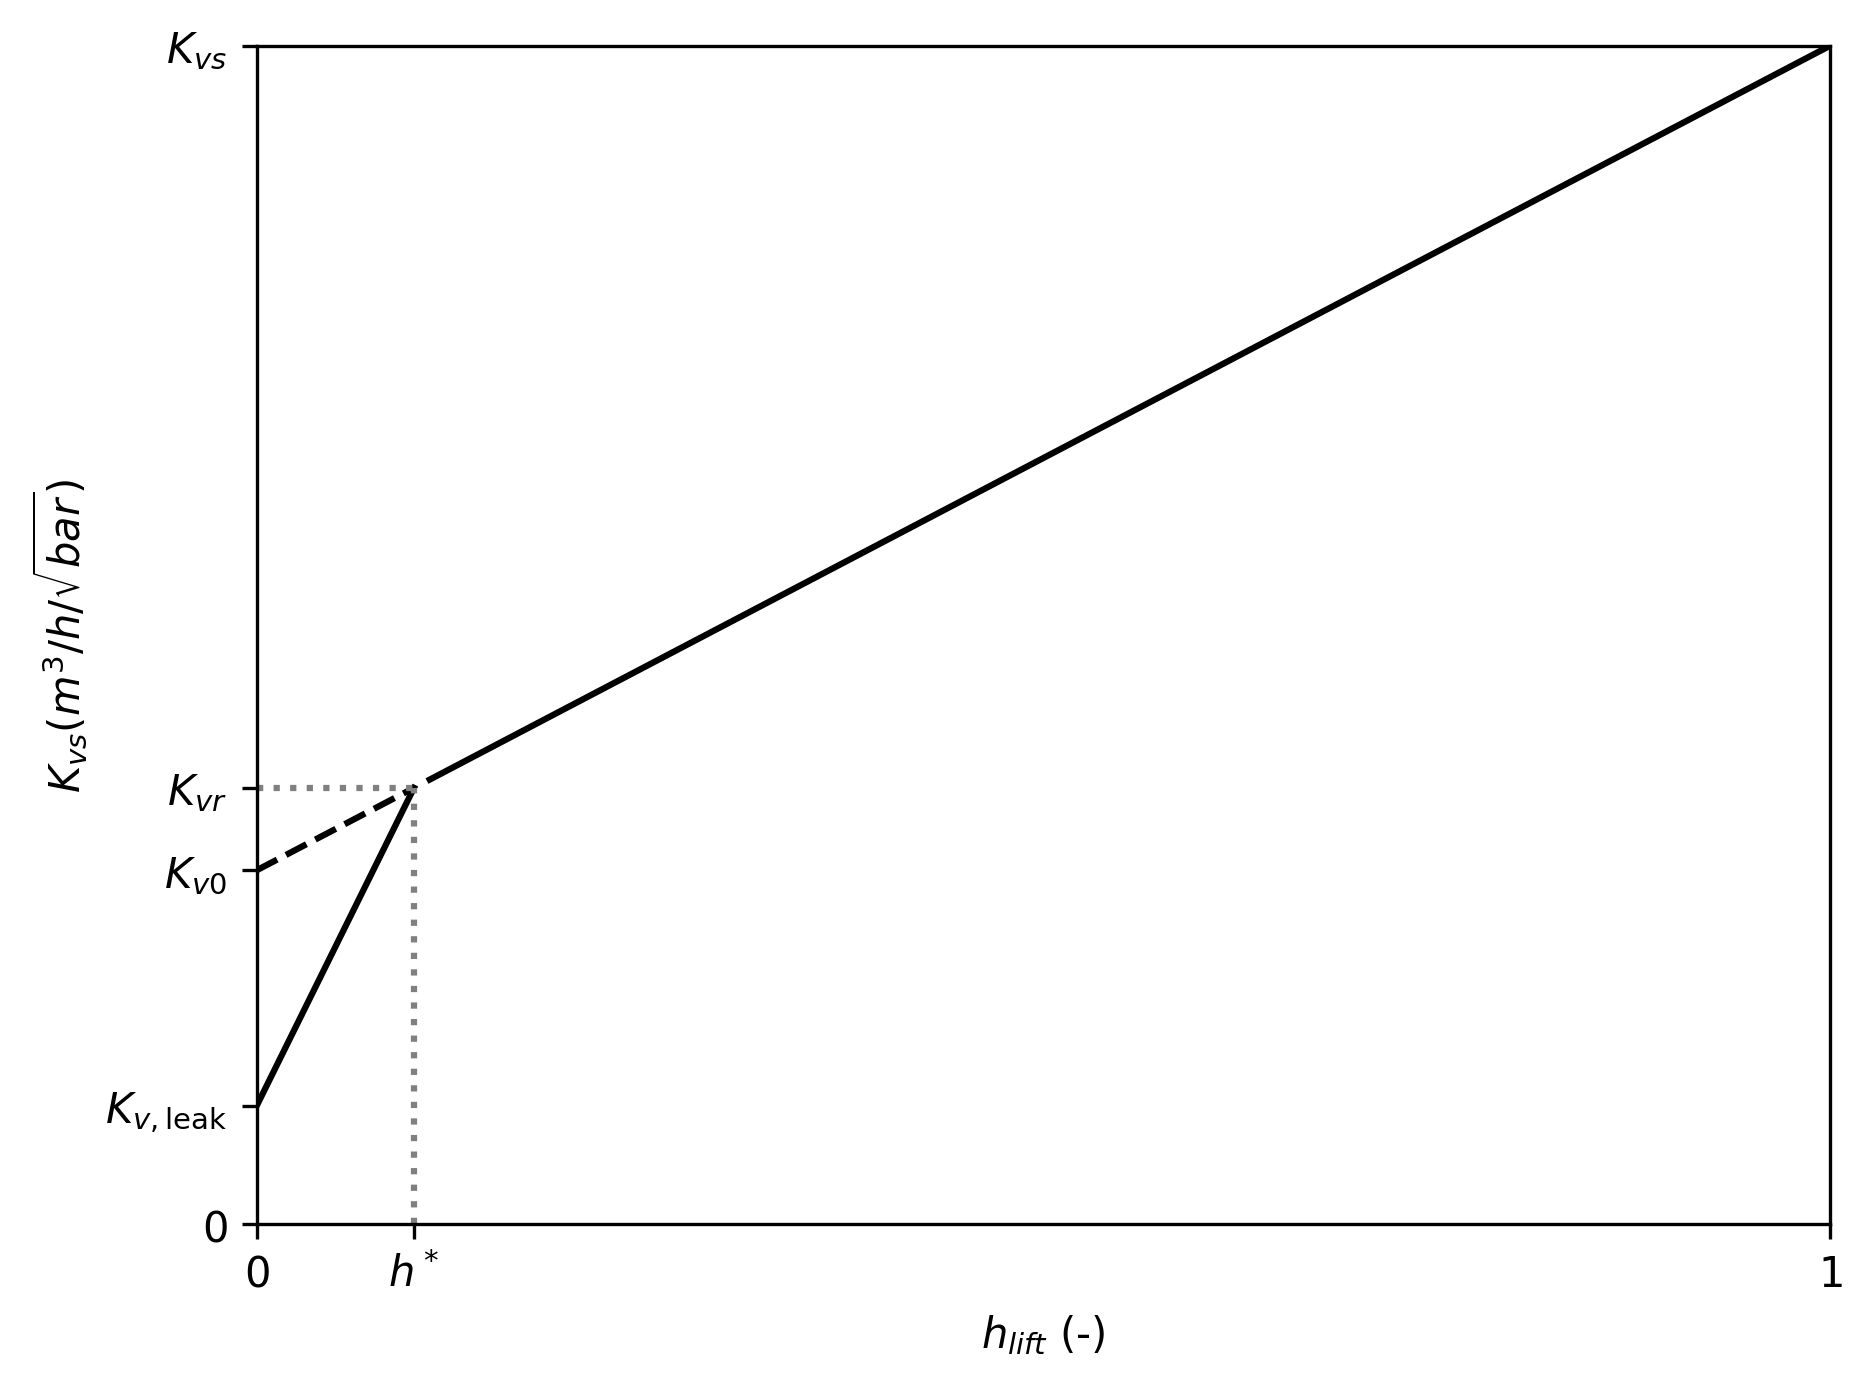
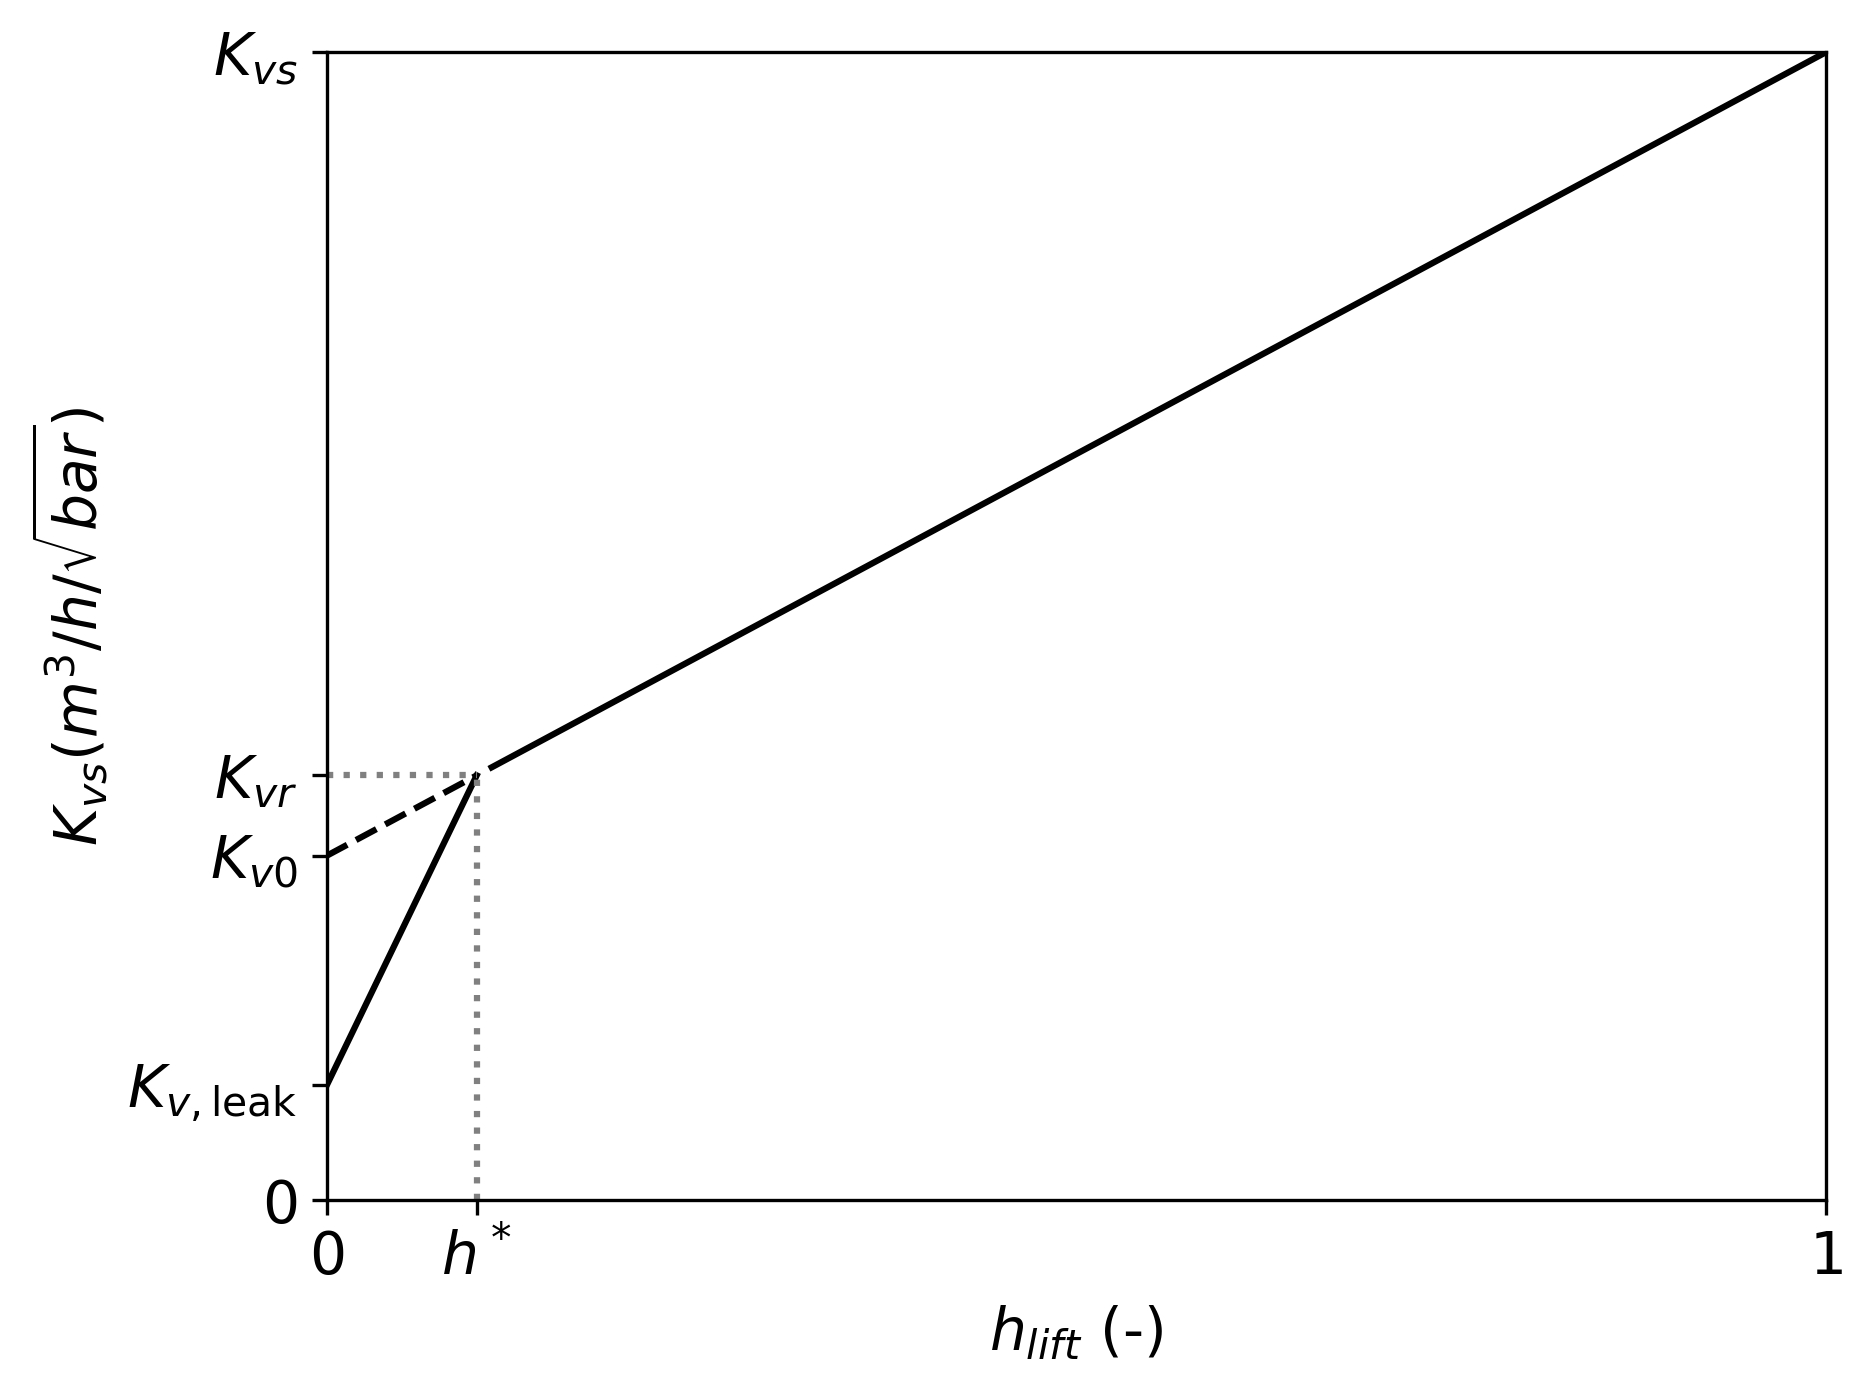
fontt

diff --git a/figureplot.py b/figureplot.py
@@ -25,15 +25,16 @@ plt.plot(x[:11], y2[:11], 'k--', color = 'black')
 plt.axvline(x=0.1, color='gray', linestyle=':', ymax=y1[10])
 plt.axhline(y=y1[10], color='gray', linestyle=':', xmax=0.1)
 
+font = 14
 # Remove intermediate valve ticks between 0 and 1 on both axes
-plt.xticks([0, 0.1, 1], ['$0$', '$h^*$', '$1$'])
-plt.yticks([0, y1[0], y1[10] - less_steep_slope*0.1, y1[10], 1], ['$0$', '$K_{v,\mathrm{leak}}$' , '$K_{v0}$','$K_{vr}$', '$K_{vs}$'])
+plt.xticks([0, 0.1, 1], ['$0$', '$h^*$', '$1$'], fontsize=font)
+plt.yticks([0, y1[0], y1[10] - less_steep_slope*0.1, y1[10], 1], ['$0$', '$K_{v,\mathrm{leak}}$' , '$K_{v0}$','$K_{vr}$', '$K_{vs}$'], fontsize=font)
 
 # Axis limits and labels
 plt.xlim(0, 1)
 plt.ylim(0, 1)
-plt.ylabel('$K_{vs} (m^3/h/\sqrt{bar})$')
-plt.xlabel('$h_{lift}$ (-)')
+plt.ylabel('$K_{vs} (m^3/h/\sqrt{bar})$', fontsize=font)
+plt.xlabel('$h_{lift}$ (-)', fontsize=font)
 plt.tight_layout()
 # plt.show()
 
